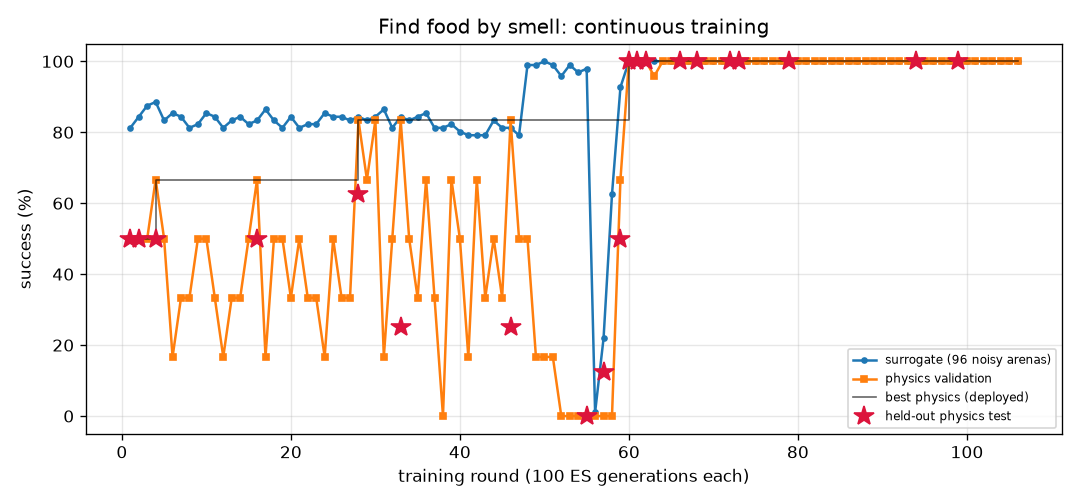
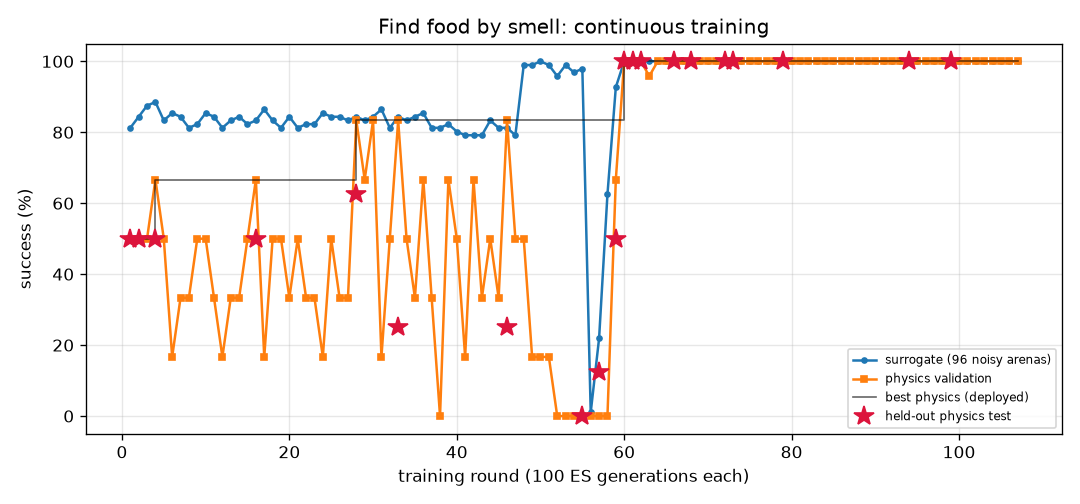
FlyLab: continuous training progress (daily review)

diff --git a/projects/09_flylab/training/turn/REPORT.md b/projects/09_flylab/training/turn/REPORT.md
@@ -1,14 +1,14 @@
 # Turn in place (`turn`) — training report
 
-*Auto-generated by `train_brains.py`, last updated 2026-10-17T20:57:37.*
+*Auto-generated by `train_brains.py`, last updated 2026-10-17T21:18:13.*
 
 ![curve](curve.png)
 
 | | |
 |---|---|
-| rounds | 520 |
-| ES generations | 52000 |
-| physics runs | 12726 |
+| rounds | 524 |
+| ES generations | 52400 |
+| physics runs | 12822 |
 | status | **optimal** |
 | best brain | round 80: physics validation **100%** on 24 arenas, surrogate 100% |
 | held-out physics test | **97%** on 32 unseen arenas (95% CI 84%-99%) (errors: [1.6, 3.3, 6.3, 3.7, 1.1, 0.4, 2.4, 2.9, 0.1, 2.6, 0.5, 2.7, 1.5, 3.1, 4.5, 0.2, 0.5, 1.1, 2.0, 4.4, 2.8, 3.2, 0.3, 2.2, 0.5, 3.0, 0.3, 5.4, 0.4, 1.0, 4.7, 10.7]) |
@@ -17,10 +17,6 @@ Physics error per arena: deg from target heading (< 20 = success).
 
 | round | level | gens | sigma | surrogate | physics val | val errors | test | note |
 |---:|---:|---:|---:|---:|---:|---|---:|---|
-| 481 | 3 | 48100 | 0.024 | 99% | 88% | [1.7, 3.3, 3.2, 0.8, 11.1, 3.3, 3.7, 8.1, 5.7, 1.3, 5.4, 0.4, 2.2, 0.0, 4.6, 0.1, 1.1, 1.4, 0.2, 0.8, 5.4, 0.7, 5.7, 6.2] |  |  |
-| 482 | 3 | 48200 | 0.025 | 98% | 100% | [5.0, 1.5, 2.4, 0.2, 13.6, 0.9, 6.1, 4.0, 5.5, 0.6, 4.2, 0.9, 2.1, 2.6, 3.3, 8.7, 0.8, 2.5, 11.2, 3.1, 2.7, 2.2, 5.1, 2.2] |  |  |
-| 483 | 3 | 48300 | 0.025 | 98% | 83% | [9.1, 6.8, 11.2, 2.2, 16.3, 5.6, 9.8, 12.0, 9.8, 4.5, 5.3, 6.3, 3.0, 2.5, 5.7, 4.2, 6.4, 7.6, 16.0, 4.6, 2.7, 5.6, 9.0, 9.2] |  |  |
-| 484 | 3 | 48400 | 0.025 | 98% | 88% | [6.5, 10.9, 8.3, 4.8, 6.0, 1.9, 1.3, 4.0, 3.0, 0.5, 1.2, 3.2, 2.1, 5.4, 2.5, 2.7, 3.1, 1.5, 3.0, 2.4, 5.0, 1.1, 3.2, 1.9] |  | restart from best |
 | 485 | 3 | 48500 | 0.024 | 98% | 88% | [9.1, 13.5, 12.7, 5.4, 4.2, 0.5, 1.7, 7.5, 1.3, 3.0, 1.1, 5.2, 4.2, 5.3, 1.0, 4.5, 6.0, 2.2, 3.9, 3.3, 8.5, 2.1, 0.9, 12.5] |  |  |
 | 486 | 3 | 48600 | 0.025 | 99% | 88% | [3.6, 7.8, 6.8, 4.4, 2.6, 5.4, 1.5, 6.6, 3.9, 0.6, 4.1, 0.2, 3.6, 2.0, 2.4, 4.8, 0.8, 1.3, 0.9, 1.6, 5.5, 0.5, 6.2, 0.9] |  |  |
 | 487 | 3 | 48700 | 0.025 | 99% | 79% | [7.5, 5.2, 1.7, 1.4, 2.7, 0.1, 5.3, 2.8, 3.2, 1.5, 4.0, 1.2, 1.5, 0.9, 5.0, 1.2, 1.6, 0.2, 0.3, 1.5, 9.3, 0.9, 3.6, 3.6] |  |  |
@@ -57,3 +53,7 @@ Physics error per arena: deg from target heading (< 20 = success).
 | 518 | 3 | 51800 | 0.025 | 99% | 88% | [5.4, 8.8, 4.6, 4.1, 2.7, 3.6, 4.2, 3.8, 3.4, 0.6, 3.6, 1.6, 3.3, 2.5, 3.3, 1.4, 1.8, 0.3, 0.2, 0.2, 4.1, 0.5, 4.2, 5.4] |  |  |
 | 519 | 3 | 51900 | 0.025 | 99% | 100% | [8.5, 8.7, 8.6, 4.3, 2.3, 2.6, 1.6, 0.4, 3.0, 0.1, 1.9, 2.5, 4.9, 3.1, 2.1, 3.5, 2.8, 3.9, 3.0, 2.8, 5.6, 1.3, 2.7, 2.7] |  |  |
 | 520 | 3 | 52000 | 0.025 | 98% | 79% | [9.3, 11.3, 9.4, 2.7, 2.4, 1.0, 2.8, 4.3, 3.5, 1.0, 1.5, 3.6, 1.2, 4.2, 0.9, 2.8, 3.5, 1.8, 1.8, 3.0, 7.6, 0.6, 3.8, 3.0] |  | restart from best |
+| 521 | 3 | 52100 | 0.024 | 99% | 71% | [0.3, 1.2, 6.0, 0.3, 3.2, 118.3, 7.4, 9.8, 7.2, 1.4, 4.9, 2.0, 1.1, 1.1, 6.5, 1.6, 2.1, 3.0, 1.0, 1.9, 0.8, 2.4, 5.8, 5.2] |  |  |
+| 522 | 3 | 52200 | 0.025 | 99% | 100% | [6.1, 8.1, 1.0, 0.9, 4.5, 0.7, 2.5, 2.1, 3.5, 0.1, 2.3, 0.4, 3.0, 2.2, 3.2, 1.1, 0.1, 0.8, 0.6, 1.8, 3.7, 0.5, 5.6, 2.6] |  |  |
+| 523 | 3 | 52300 | 0.025 | 99% | 83% | [3.4, 9.0, 2.2, 3.1, 4.8, 1.3, 5.2, 1.5, 3.4, 1.5, 4.4, 0.7, 1.8, 3.6, 4.3, 1.6, 0.8, 1.4, 1.8, 1.0, 5.0, 0.4, 3.0, 3.8] |  |  |
+| 524 | 3 | 52400 | 0.025 | 98% | 96% | [10.0, 10.4, 3.4, 2.5, 4.0, 0.5, 2.4, 4.6, 2.2, 2.8, 0.7, 3.4, 0.1, 6.2, 1.1, 2.2, 3.6, 2.6, 1.8, 3.6, 8.6, 0.9, 1.8, 3.8] |  | restart from best |

diff --git a/projects/09_flylab/training/odor_avoid/REPORT.md b/projects/09_flylab/training/odor_avoid/REPORT.md
@@ -1,14 +1,14 @@
 # Escape a bad smell (`odor_avoid`) — training report
 
-*Auto-generated by `train_brains.py`, last updated 2026-10-17T17:47:05.*
+*Auto-generated by `train_brains.py`, last updated 2026-10-17T21:19:23.*
 
 ![curve](curve.png)
 
 | | |
 |---|---|
-| rounds | 523 |
-| ES generations | 52300 |
-| physics runs | 9858 |
+| rounds | 524 |
+| ES generations | 52400 |
+| physics runs | 9882 |
 | status | **optimal** |
 | best brain | round 373: physics validation **100%** on 24 arenas, surrogate 97% |
 | held-out physics test | **97%** on 32 unseen arenas (95% CI 84%-99%) (errors: [62.0, 57.4, 62.6, 61.9, 59.0, 61.6, 56.5, 60.7, 31.7, 60.9, 63.1, 57.1, 61.1, 62.1, 61.5, 60.2, 62.2, 55.2, 62.1, 54.2, 61.3, 62.0, 58.0, 61.9, 59.8, 56.5, 56.3, 56.4, 56.3, 57.7, 61.9, 32.4]) |
@@ -17,7 +17,6 @@ Physics error per arena: mm gained away from source (> 6 without first approachi
 
 | round | level | gens | sigma | surrogate | physics val | val errors | test | note |
 |---:|---:|---:|---:|---:|---:|---|---:|---|
-| 484 | 3 | 48400 | 0.028 | 95% | 100% | [62.8, 57.8, 56.3, 59.9, 61.9, 61.1, 60.9, 48.8, 61.7, 58.6, 61.9, 61.9, 54.7, 56.1, 45.0, 61.5, 61.8, 61.0, 55.0, 59.3, 61.7, 57.4, 59.7, 56.6] |  |  |
 | 485 | 3 | 48500 | 0.027 | 94% | 96% | [61.9, 60.6, 56.1, 60.9, 62.2, 60.6, 62.1, 51.5, 62.0, 59.3, 61.6, 62.3, 54.8, 56.4, 48.2, 62.5, 62.2, 60.2, 55.4, 59.5, 62.2, 61.4, 59.7, 51.9] |  | restart from best |
 | 486 | 3 | 48600 | 0.026 | 97% | 96% | [61.2, 59.7, 55.5, 60.2, 61.3, 61.3, 61.5, 13.6, 61.9, 32.2, 58.5, 62.0, 51.6, 55.1, 45.7, 60.7, 61.8, 61.0, 55.0, 57.1, 61.4, 50.0, 58.8, 35.0] |  |  |
 | 487 | 3 | 48700 | 0.026 | 94% | 96% | [62.6, 57.0, 58.2, 57.9, 61.7, 61.1, 60.8, 61.4, 60.5, 61.9, 61.5, 60.0, 54.4, 58.1, 49.0, 61.8, 61.2, 61.1, 55.0, 56.3, 60.3, 61.4, 58.0, 60.3] |  |  |
@@ -57,3 +56,4 @@ Physics error per arena: mm gained away from source (> 6 without first approachi
 | 521 | 3 | 52100 | 0.027 | 98% | 96% | [63.0, 61.6, 56.1, 59.0, 62.1, 62.4, 61.7, 47.4, 61.0, 62.3, 61.8, 62.3, 54.8, 56.4, 40.8, 61.8, 62.4, 62.4, 55.1, 58.5, 62.3, 62.4, 56.1, 61.2] |  | restart from best |
 | 522 | 3 | 52200 | 0.026 | 93% | 100% | [62.2, 57.3, 55.8, 57.1, 62.1, 50.5, 61.3, 19.9, 60.0, 53.3, 61.3, 62.1, 54.7, 57.5, 42.9, 61.8, 61.9, 61.0, 55.0, 55.6, 61.7, 24.0, 57.1, 23.5] |  |  |
 | 523 | 3 | 52300 | 0.028 | 94% | 100% | [62.6, 61.0, 55.5, 61.0, 43.7, 58.4, 62.1, 61.8, 62.0, 29.9, 30.9, 61.8, 51.6, 55.9, 31.9, 61.4, 62.0, 58.4, 51.7, 60.3, 62.0, 61.3, 60.0, 62.5] |  |  |
+| 524 | 3 | 52400 | 0.028 | 96% | 92% | [63.0, 56.5, 55.7, 61.4, 59.9, 48.2, 61.3, 6.6, 61.3, 19.1, 3.6, 61.7, 48.1, 54.8, 1.4, 55.9, 62.1, 57.6, 51.5, 56.9, 62.2, 35.0, 61.5, 60.5] |  |  |

diff --git a/projects/09_flylab/training/odor_seek/REPORT.md b/projects/09_flylab/training/odor_seek/REPORT.md
@@ -1,14 +1,14 @@
 # Find food by smell (`odor_seek`) — training report
 
-*Auto-generated by `train_brains.py`, last updated 2026-10-17T20:59:35.*
+*Auto-generated by `train_brains.py`, last updated 2026-10-17T21:12:27.*
 
 ![curve](curve.png)
 
 | | |
 |---|---|
-| rounds | 106 |
-| ES generations | 10600 |
-| physics runs | 1910 |
+| rounds | 107 |
+| ES generations | 10700 |
+| physics runs | 1934 |
 | status | **optimal** |
 | best brain | round 99: physics validation **100%** on 24 arenas, surrogate 100% |
 | held-out physics test | **100%** on 32 unseen arenas (95% CI 89%-100%) (errors: [0.16, 0.18, 0.15, 0.21, 0.19, 0.16, 0.21, 0.2, 0.2, 0.18, 0.15, 0.18, 0.15, 0.2, 0.18, 0.19, 0.13, 0.16, 0.2, 0.2, 0.21, 0.15, 0.2, 0.17, 0.19, 0.25, 0.15, 0.19, 0.26, 0.16, 0.2, 0.26]) |
@@ -17,7 +17,6 @@ Physics error per arena: mm from target at the end (< 1.5 and standing still = s
 
 | round | level | gens | sigma | surrogate | physics val | val errors | test | note |
 |---:|---:|---:|---:|---:|---:|---|---:|---|
-| 67 | 3 | 6700 | 0.024 | 100% | 100% | [0.21, 0.13, 0.2, 0.17, 0.27, 0.19, 0.21, 0.2, 0.17, 0.21, 0.21, 0.18, 0.24, 0.27, 0.13, 0.13, 0.23, 0.19, 0.19, 0.19, 0.26, 0.3, 0.17, 0.23] |  |  |
 | 68 | 3 | 6800 | 0.024 | 100% | 100% | [0.3, 0.26, 0.23, 0.13, 0.25, 0.27, 0.34, 0.24, 0.26, 0.25, 0.25, 0.32, 0.26, 0.29, 0.27, 0.3, 0.3, 0.22, 0.23, 0.3, 0.3, 0.29, 0.29, 0.25] | 100% | new best |
 | 69 | 3 | 6900 | 0.024 | 100% | 100% | [0.3, 0.35, 0.3, 0.27, 0.29, 0.25, 0.34, 0.26, 0.26, 0.28, 0.3, 0.32, 0.24, 0.35, 0.31, 0.22, 0.32, 0.32, 0.27, 0.28, 0.24, 0.31, 0.24, 0.26] |  |  |
 | 70 | 3 | 7000 | 0.024 | 100% | 100% | [0.21, 0.25, 0.21, 0.3, 0.25, 0.28, 0.25, 0.22, 0.24, 0.29, 0.28, 0.28, 0.24, 0.22, 0.34, 0.25, 0.27, 0.25, 0.33, 0.26, 0.24, 0.26, 0.26, 0.24] |  |  |
@@ -57,3 +56,4 @@ Physics error per arena: mm from target at the end (< 1.5 and standing still = s
 | 104 | 3 | 10400 | 0.024 | 100% | 100% | [0.18, 0.19, 0.2, 0.22, 0.2, 0.14, 0.18, 0.16, 0.14, 0.19, 0.21, 0.18, 0.22, 0.18, 0.16, 0.2, 0.19, 0.22, 0.15, 0.18, 0.17, 0.21, 0.27, 0.19] |  |  |
 | 105 | 3 | 10500 | 0.024 | 100% | 100% | [0.21, 0.2, 0.21, 0.22, 0.22, 0.17, 0.21, 0.19, 0.28, 0.27, 0.16, 0.21, 0.25, 0.21, 0.19, 0.21, 0.2, 0.2, 0.17, 0.22, 0.19, 0.22, 0.23, 0.16] |  |  |
 | 106 | 3 | 10600 | 0.024 | 100% | 100% | [0.21, 0.24, 0.15, 0.21, 0.21, 0.2, 0.22, 0.16, 0.18, 0.2, 0.16, 0.28, 0.21, 0.2, 0.26, 0.26, 0.24, 0.27, 0.29, 0.22, 0.17, 0.21, 0.16, 0.18] |  |  |
+| 107 | 3 | 10700 | 0.024 | 100% | 100% | [0.28, 0.28, 0.25, 0.29, 0.2, 0.24, 0.23, 0.26, 0.25, 0.22, 0.24, 0.21, 0.25, 0.22, 0.22, 0.18, 0.22, 0.24, 0.29, 0.23, 0.19, 0.18, 0.23, 0.2] |  | restart from best |

diff --git a/projects/09_flylab/training/TRAINING.md b/projects/09_flylab/training/TRAINING.md
@@ -1,15 +1,15 @@
 # FlyLab brains — continuous training log
 
-*Auto-generated by `train_brains.py`, last updated 2026-10-17T20:59:35.*
+*Auto-generated by `train_brains.py`, last updated 2026-10-17T21:19:23.*
 
 Every skill has its own brain and its own training process: surrogate ES rounds, physics validation in MuJoCo, keep-the-best selection, and a held-out physics test that is never used for selection. See each skill's report for its full round-by-round history. Mastery is progressive: passing a level (100% physics validation, >=95% surrogate) doubles the validation and test arena sets; a brain is **optimal** once it holds up at level 3 (>=95% of 24 validation arenas) AND scores >=90% on the 32 held-out test arenas. Test columns show 95% Wilson confidence intervals.
 
 | skill | rounds | ES generations | physics runs | surrogate | physics val | **physics test** | status |
 |---|---:|---:|---:|---:|---:|---:|---|
 | [Walk forward](walk_forward/REPORT.md) | 118 | 11800 | 2846 | 100% | 100% of 24 | 100% of 32 (CI 89-100%) | **optimal** |
-| [Turn in place](turn/REPORT.md) | 520 | 52000 | 12726 | 100% | 100% of 24 | 97% of 32 (CI 84-99%) | **optimal** |
+| [Turn in place](turn/REPORT.md) | 524 | 52400 | 12822 | 100% | 100% of 24 | 97% of 32 (CI 84-99%) | **optimal** |
 | [Go to a location](goto/REPORT.md) | 112 | 11200 | 2574 | 100% | 100% of 24 | 100% of 32 (CI 89-100%) | **optimal** |
-| [Find food by smell](odor_seek/REPORT.md) | 106 | 10600 | 1910 | 100% | 100% of 24 | 100% of 32 (CI 89-100%) | **optimal** |
-| [Escape a bad smell](odor_avoid/REPORT.md) | 523 | 52300 | 9858 | 97% | 100% of 24 | 97% of 32 (CI 84-99%) | **optimal** |
+| [Find food by smell](odor_seek/REPORT.md) | 107 | 10700 | 1934 | 100% | 100% of 24 | 100% of 32 (CI 89-100%) | **optimal** |
+| [Escape a bad smell](odor_avoid/REPORT.md) | 524 | 52400 | 9882 | 97% | 100% of 24 | 97% of 32 (CI 84-99%) | **optimal** |
 | [Walk toward light](light_seek/REPORT.md) | 296 | 29600 | 3952 | 100% | 100% of 24 | 100% of 32 (CI 89-100%) | **optimal** |
 | [Hide from light](light_avoid/REPORT.md) | 261 | 26100 | 6536 | 100% | 100% of 24 | 100% of 32 (CI 89-100%) | **optimal** |
